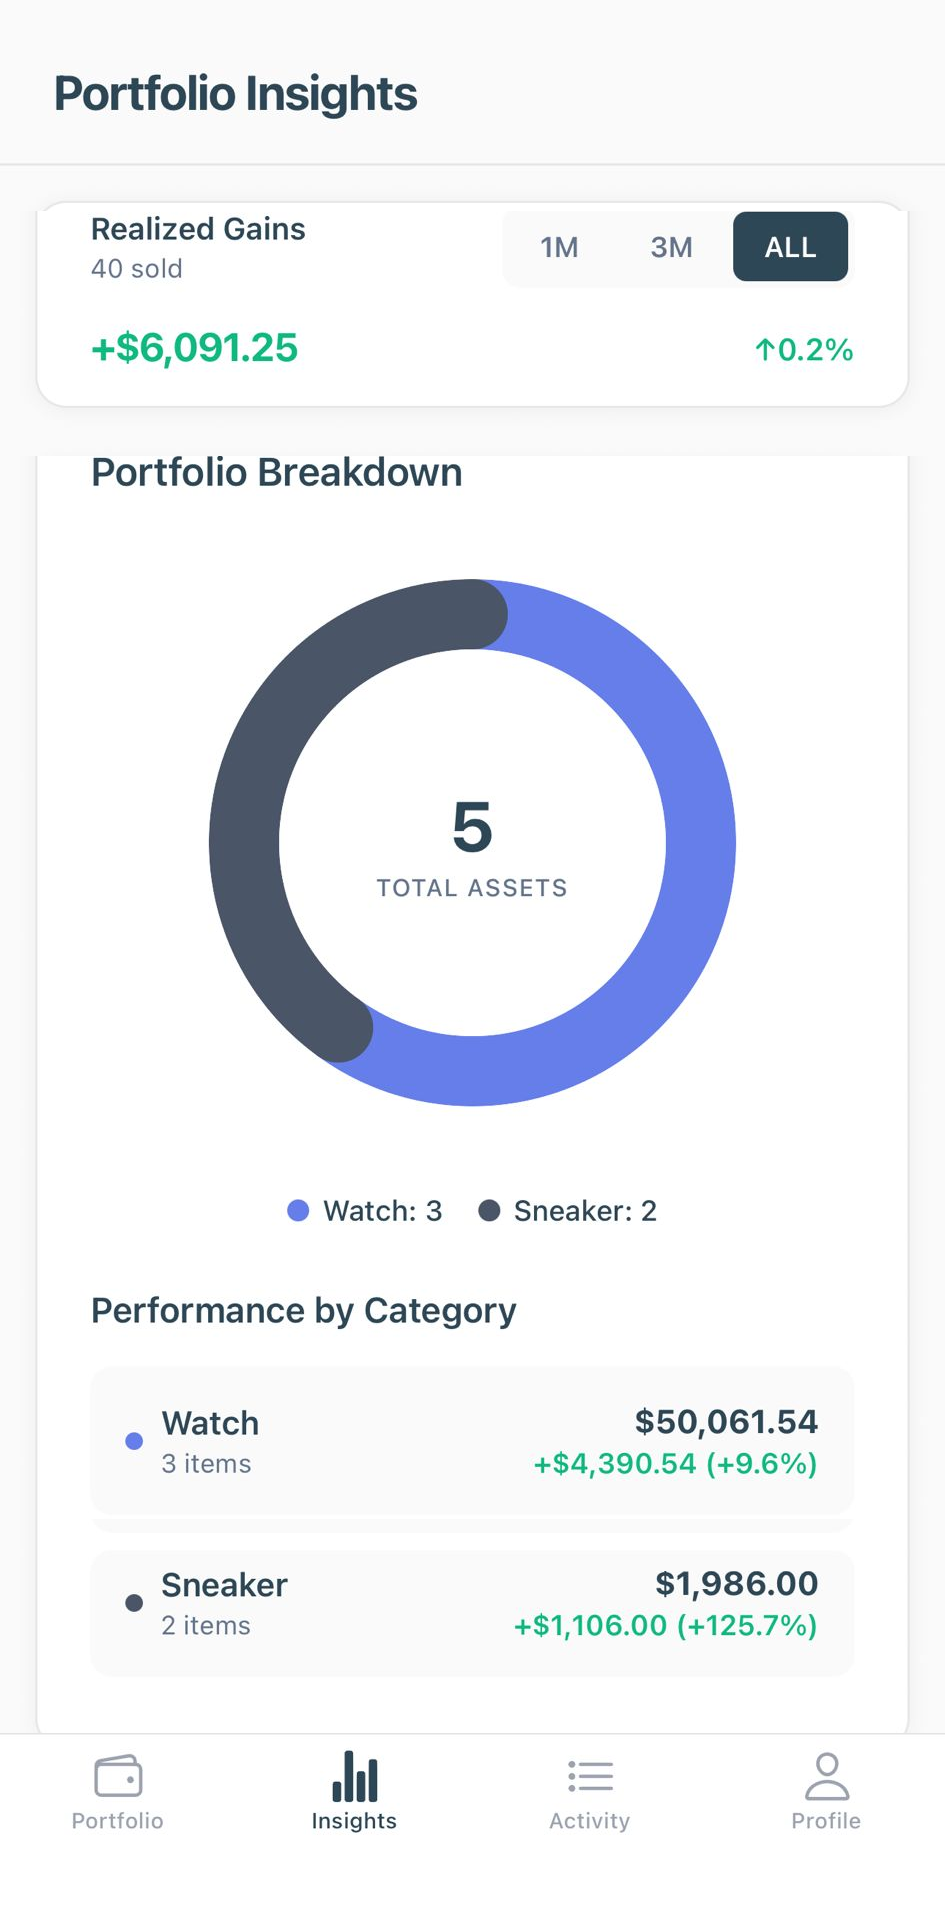
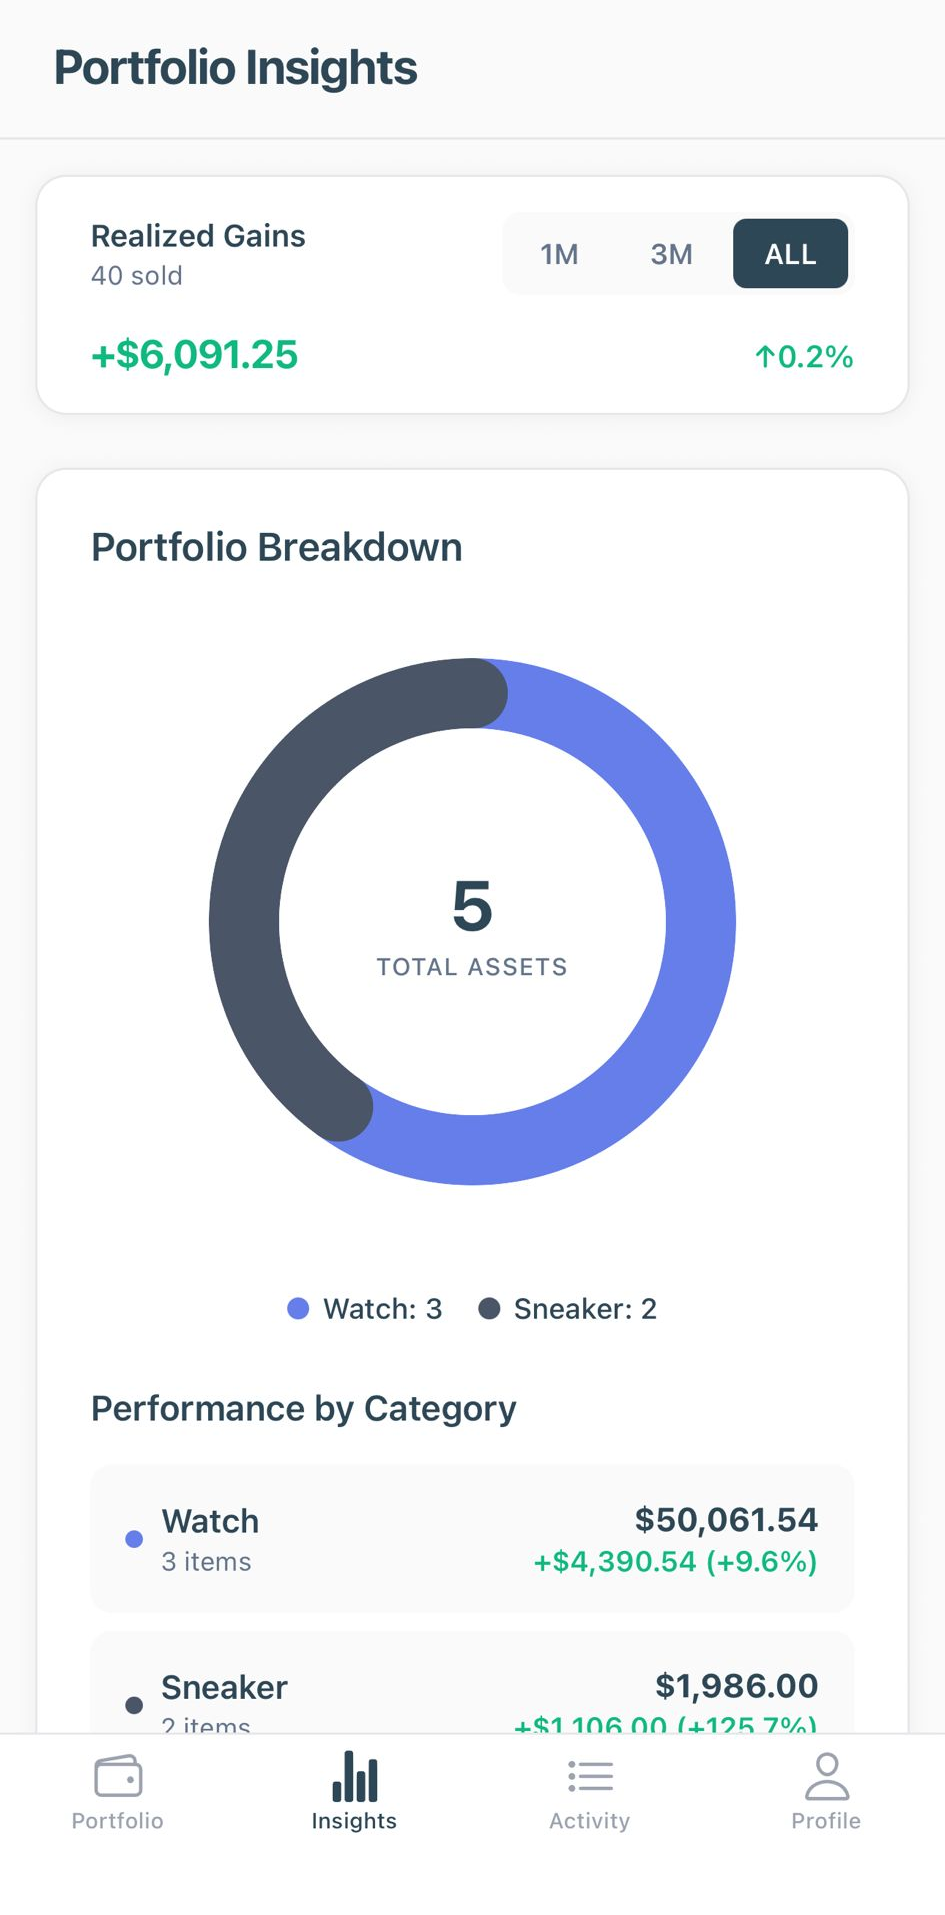
update: replace styles and insights screenshot from updated design

diff --git a/app/globals.css b/app/globals.css
@@ -21,13 +21,14 @@
   --red:#d6463b;
   --periwinkle:#5e6be8;
 
+  /* accent — overridden by [data-accent] */
   --accent:#15a06b;
   --accent-tint:#e6f4ec;
   --accent-ink:#0e6e49;
 
-  --font-display:var(--font-schibsted),system-ui,sans-serif;
-  --font-body:var(--font-hanken),system-ui,sans-serif;
-  --font-mono:var(--font-jetbrains),ui-monospace,monospace;
+  --font-display:'Schibsted Grotesk',system-ui,sans-serif;
+  --font-body:'Hanken Grotesk',system-ui,sans-serif;
+  --font-mono:'JetBrains Mono',ui-monospace,monospace;
 
   --maxw:1180px;
   --radius:18px;
@@ -36,6 +37,13 @@
   --shadow:0 12px 30px -12px rgba(22,37,47,.22),0 4px 10px -4px rgba(22,37,47,.10);
   --shadow-lg:0 40px 80px -30px rgba(22,37,47,.38),0 16px 40px -20px rgba(22,37,47,.22);
 }
+
+[data-accent="emerald"]{ --accent:#15a06b; --accent-tint:#e6f4ec; --accent-ink:#0e6e49; }
+[data-accent="navy"]    { --accent:#1f3240; --accent-tint:#e7ecef; --accent-ink:#16252f; }
+[data-accent="periwinkle"]{ --accent:#5664e6; --accent-tint:#ebecfb; --accent-ink:#3a47c4; }
+[data-accent="champagne"]{ --accent:#a9854f; --accent-tint:#f4ecdd; --accent-ink:#7e6231; }
+
+[data-font="editorial"]{ --font-display:'Newsreader',Georgia,serif; }
 
 *{box-sizing:border-box}
 html{scroll-behavior:smooth}
@@ -58,6 +66,7 @@ a{color:inherit;text-decoration:none}
 
 /* ---------- type ---------- */
 h1,h2,h3{font-family:var(--font-display);font-weight:800;color:var(--text);margin:0;line-height:1.04;letter-spacing:-.02em}
+[data-font="editorial"] h1,[data-font="editorial"] h2,[data-font="editorial"] h3{font-weight:600;letter-spacing:-.01em}
 h1{font-size:clamp(2.6rem,6vw,4.4rem)}
 h2{font-size:clamp(2rem,4vw,3.1rem)}
 h3{font-size:clamp(1.3rem,2vw,1.65rem);letter-spacing:-.01em}
@@ -75,7 +84,7 @@ p{margin:0}
 }
 .eyebrow::before{content:"";width:7px;height:7px;border-radius:50%;background:var(--accent)}
 
-/* ---------- store buttons ---------- */
+/* ---------- buttons / store badges ---------- */
 .store-row{display:flex;gap:14px;flex-wrap:wrap;align-items:center}
 .appbtn{
   display:inline-flex;align-items:center;gap:12px;
@@ -85,7 +94,7 @@ p{margin:0}
 }
 .appbtn:hover{background:var(--ink-900);transform:translateY(-2px)}
 .appbtn-ic{width:24px;height:24px;flex:none;fill:#fff}
-.appbtn-tx{display:flex;flex-direction:column;line-height:1.08}
+.appbtn-tx{display:flex;flex-direction:column;line-height:1.18;gap:1px}
 .appbtn-tx small{font-size:.66rem;letter-spacing:.02em;opacity:.82;font-weight:500}
 .appbtn-tx strong{font-family:var(--font-display);font-size:1.08rem;font-weight:700;letter-spacing:-.01em}
 
@@ -134,37 +143,83 @@ p{margin:0}
 .hero-copy{display:flex;flex-direction:column;gap:24px;max-width:560px}
 .hero h1{margin-top:6px}
 .hero h1 .hl{color:var(--accent-ink);white-space:nowrap}
+[data-accent="navy"] .hero h1 .hl{color:var(--ink)}
 .hero-sub{display:flex;flex-direction:column;gap:14px}
 .hero-trust{display:flex;align-items:center;gap:10px;flex-wrap:wrap;margin-top:4px;
   font-family:var(--font-mono);font-size:.78rem;letter-spacing:.04em;color:var(--muted)}
 .hero-trust .dot{width:4px;height:4px;border-radius:50%;background:var(--muted-2)}
 
+/* app cluster visual (native UI, no device frame) */
 .app-stage{position:relative;display:flex;justify-content:center;align-items:flex-start}
 .phone-glow{
-  position:absolute;inset:-8% -6% 4% -6%;z-index:0;border-radius:48px;
-  background:radial-gradient(closest-side, color-mix(in srgb,var(--accent) 20%,transparent), transparent 72%);
-  filter:blur(14px);opacity:.7;
+  display:none;
 }
+.app-cluster{position:relative;z-index:1;width:min(420px,100%);display:flex;flex-direction:column;gap:16px}
+.chip{
+  position:absolute;z-index:3;background:var(--card);
+  border:1px solid var(--line);border-radius:14px;
+  box-shadow:var(--shadow);padding:11px 14px;
+  display:flex;align-items:center;gap:11px;
+}
+.chip .ic{width:34px;height:34px;border-radius:9px;display:grid;place-items:center;flex:none;
+  background:var(--accent-tint);color:var(--accent-ink)}
+.chip .ic svg{width:18px;height:18px;fill:none;stroke:currentColor;stroke-width:2;stroke-linecap:round;stroke-linejoin:round}
+.chip .c-label{display:block;font-family:var(--font-mono);font-size:.6rem;letter-spacing:.12em;text-transform:uppercase;color:var(--muted-2);line-height:1}
+.chip .c-val{display:block;font-family:var(--font-display);font-weight:700;font-size:1.02rem;color:var(--text);line-height:1.1;margin-top:4px}
+.chip .c-val.pos{color:var(--green)}
+.chip.c1{top:14%;left:-6%;animation:float 6s ease-in-out infinite}
+.chip.c2{bottom:16%;right:-7%;animation:float 6s ease-in-out infinite .8s}
+@keyframes float{0%,100%{transform:translateY(0)}50%{transform:translateY(-10px)}}
+
+/* centered hero variant */
+[data-hero="centered"] .hero-grid{grid-template-columns:1fr;text-align:center;gap:40px}
+[data-hero="centered"] .hero-copy{max-width:720px;margin:0 auto;align-items:center}
+[data-hero="centered"] .lead{max-width:54ch}
+[data-hero="centered"] .app-cluster{width:min(400px,90%);margin:0 auto}
+[data-hero="centered"] .chip.c1{left:4%}
+[data-hero="centered"] .chip.c2{right:4%}
 
 @media(max-width:860px){
   .hero-grid{grid-template-columns:1fr;text-align:center;gap:44px}
   .hero-copy{max-width:640px;margin:0 auto;align-items:center}
   .hero .store-row{justify-content:center}
   .hero .lead{max-width:52ch}
+  .chip.c1{left:2%}.chip.c2{right:2%}
 }
+
+/* ---------- category / vault strip ---------- */
+.cats{display:grid;grid-template-columns:repeat(5,1fr);gap:16px;margin-top:42px}
+.cat{
+  background:var(--card);border:1px solid var(--line);border-radius:var(--radius);
+  padding:26px 18px;text-align:center;position:relative;
+  transition:transform .25s,box-shadow .25s,border-color .25s;
+}
+.cat:hover{transform:translateY(-4px);box-shadow:var(--shadow);border-color:var(--line-strong)}
+.cat .cat-ic{width:52px;height:52px;margin:0 auto 14px;border-radius:14px;display:grid;place-items:center;
+  background:var(--paper-2);color:var(--ink)}
+.cat:hover .cat-ic{background:var(--accent-tint);color:var(--accent-ink)}
+.cat .cat-ic svg{width:28px;height:28px;fill:none;stroke:currentColor;stroke-width:1.7}
+.cat .cat-name{font-family:var(--font-display);font-weight:700;font-size:1.05rem}
+.cat .cat-tag{font-family:var(--font-mono);font-size:.62rem;letter-spacing:.14em;text-transform:uppercase;margin-top:7px}
+.cat .cat-tag.live{color:var(--green)}
+.cat .cat-tag.soon{color:var(--muted-2)}
+@media(max-width:760px){.cats{grid-template-columns:repeat(2,1fr)}}
 
 /* ---------- section head ---------- */
 .head{max-width:640px;display:flex;flex-direction:column;gap:18px}
 .head.center{margin:0 auto;text-align:center;align-items:center}
 
-/* ---------- spotlight / feature ---------- */
-.spot{display:grid;grid-template-columns:1fr 1fr;gap:clamp(40px,6vw,90px);align-items:center}
+/* ---------- spotlight feature ---------- */
+.spot{display:grid;grid-template-columns:1.05fr .95fr;gap:48px;align-items:center}
+.spot.flip{direction:rtl}
+.spot.flip>*{direction:ltr}
 .spot-media{position:relative;display:flex;justify-content:center}
 .spot-media::before{
   content:"";position:absolute;inset:4% 6%;z-index:0;border-radius:40px;
   background:radial-gradient(closest-side,color-mix(in srgb,var(--accent) 15%,transparent),transparent 70%);
   filter:blur(10px);
 }
+.spot-media .detail-card{position:relative;z-index:1}
 .feat-list{display:flex;flex-direction:column;gap:18px;margin-top:8px}
 .feat{display:flex;gap:15px;align-items:flex-start}
 .feat .tick{width:26px;height:26px;border-radius:8px;flex:none;display:grid;place-items:center;
@@ -172,7 +227,19 @@ p{margin:0}
 .feat .tick svg{width:14px;height:14px;fill:none;stroke:currentColor;stroke-width:2.4}
 .feat b{font-family:var(--font-display);font-weight:700;font-size:1.06rem;display:block;color:var(--text)}
 .feat span{color:var(--muted);font-size:1rem;line-height:1.5}
-@media(max-width:860px){.spot{grid-template-columns:1fr;gap:40px}}
+@media(max-width:860px){.spot{grid-template-columns:1fr;gap:40px}.spot.flip{direction:ltr}}
+
+/* ---------- gallery ---------- */
+.gallery{display:grid;grid-template-columns:repeat(3,1fr);gap:24px;margin-top:54px}
+.shot{
+  border-radius:var(--radius-lg);overflow:hidden;background:var(--paper-2);
+  border:1px solid var(--line);box-shadow:var(--shadow);
+  aspect-ratio:9/15.2;
+  transition:transform .3s,box-shadow .3s;
+}
+.shot:hover{transform:translateY(-6px);box-shadow:var(--shadow-lg)}
+.shot img{width:100%;height:100%;object-fit:cover;object-position:top center}
+@media(max-width:820px){.gallery{grid-template-columns:1fr;max-width:380px;margin-left:auto;margin-right:auto}}
 
 /* ---------- how it works ---------- */
 .steps{display:grid;grid-template-columns:repeat(3,1fr);gap:26px;margin-top:54px}
@@ -193,7 +260,8 @@ p{margin:0}
 .vision h2{color:#fff}
 .vision .lead{color:#aebac1;max-width:46ch}
 .vision .eyebrow{color:color-mix(in srgb,var(--accent) 75%,#fff)}
-.vision-mark{position:relative;display:flex;justify-content:center}
+.vision-mark{display:flex;justify-content:center}
+.vision-mark{position:relative}
 .vision-mark::before{content:"";position:absolute;inset:50% auto auto 50%;transform:translate(-50%,-50%);width:min(300px,80%);aspect-ratio:1;border-radius:40px;background:radial-gradient(closest-side,color-mix(in srgb,var(--accent) 22%,transparent),transparent 72%);filter:blur(6px)}
 .vision-mark img{position:relative;width:min(208px,56%);border-radius:30px;box-shadow:0 30px 60px -20px rgba(0,0,0,.55);outline:1px solid rgba(255,255,255,.14);outline-offset:-1px}
 .taglist{display:flex;flex-wrap:wrap;gap:10px;margin-top:6px}
@@ -204,7 +272,7 @@ p{margin:0}
 
 /* ---------- final cta ---------- */
 .cta-band{text-align:center;background:var(--card);border:1px solid var(--line);border-radius:var(--radius-lg);
-  padding:clamp(48px,7vw,84px) 28px;box-shadow:var(--shadow);position:relative;overflow:hidden}
+  padding:clamp(48px,7vw,84px) 28px;position:relative;overflow:hidden}
 .cta-band::before{content:"";position:absolute;inset:0;
   background:radial-gradient(600px 300px at 50% -20%,color-mix(in srgb,var(--accent) 12%,transparent),transparent 60%)}
 .cta-band>*{position:relative;z-index:1}
@@ -226,7 +294,74 @@ p{margin:0}
   display:flex;justify-content:space-between;gap:16px;flex-wrap:wrap;
   font-family:var(--font-mono);font-size:.76rem;letter-spacing:.03em;color:var(--muted-2)}
 
-/* ===== crisp device frame ===== */
+/* ============================================================
+   NATIVE UI COMPONENTS (recreated app surfaces — crisp, no frame)
+   ============================================================ */
+/* portfolio card */
+.pcard{background:linear-gradient(158deg,#27414f,#162630);color:#fff;border-radius:24px;
+  padding:26px 26px 22px;box-shadow:var(--shadow-lg);position:relative;overflow:hidden}
+.pcard::before{content:"";position:absolute;inset:0;opacity:.5;pointer-events:none;
+  background:radial-gradient(420px 180px at 90% -10%,color-mix(in srgb,var(--accent) 30%,transparent),transparent 60%)}
+.pcard>*{position:relative}
+.pc-top{display:flex;justify-content:space-between;align-items:center}
+.pc-label{font-family:var(--font-mono);font-size:.66rem;letter-spacing:.18em;text-transform:uppercase;color:#9fb1bb}
+.pc-time{font-family:var(--font-mono);font-size:.64rem;color:#8ba0ab;display:flex;gap:7px;align-items:center}
+.pc-time i{width:6px;height:6px;border-radius:50%;background:#3ddc97;display:inline-block}
+.pc-val{font-family:var(--font-display);font-weight:800;font-size:2.7rem;letter-spacing:-.03em;margin-top:12px;line-height:1}
+.pc-delta{display:flex;align-items:center;gap:11px;margin-top:13px}
+.pc-delta .d{font-family:var(--font-display);font-weight:700;color:#3ddc97;font-size:1.08rem}
+.pc-pill{background:rgba(61,220,151,.18);color:#5fe3aa;font-family:var(--font-mono);font-size:.78rem;font-weight:600;padding:5px 10px;border-radius:8px;display:inline-flex;gap:5px;align-items:center}
+.pc-stats{display:grid;grid-template-columns:repeat(3,1fr);gap:10px;margin-top:22px;padding-top:20px;border-top:1px solid rgba(255,255,255,.12)}
+.pc-stat{background:rgba(255,255,255,.05);border:1px solid rgba(255,255,255,.09);border-radius:13px;padding:13px 8px;text-align:center}
+.pc-stat b{display:block;font-family:var(--font-display);font-weight:700;font-size:1.12rem;color:#fff;line-height:1}
+.pc-stat b.pos{color:#3ddc97}
+.pc-stat span{font-family:var(--font-mono);font-size:.55rem;letter-spacing:.13em;text-transform:uppercase;color:#8ba0ab;margin-top:6px;display:block}
+
+/* asset list card + rows */
+.listcard{background:var(--card);border:1px solid var(--line);border-radius:20px;padding:6px;box-shadow:var(--shadow)}
+.listcard .lc-head{display:flex;justify-content:space-between;align-items:center;padding:14px 14px 8px}
+.lc-head .t{font-family:var(--font-display);font-weight:800;font-size:1.05rem}
+.lc-head .a{width:30px;height:30px;border-radius:9px;background:var(--ink);color:#fff;display:grid;place-items:center}
+.lc-head .a svg{width:16px;height:16px;fill:none;stroke:currentColor;stroke-width:2.4}
+.arow{display:flex;align-items:center;gap:13px;padding:12px 14px;border-radius:14px}
+.arow+.arow{border-top:1px solid var(--line)}
+.athumb{width:42px;height:42px;border-radius:11px;flex:none;display:grid;place-items:center;background:var(--paper-2);color:var(--ink)}
+.athumb svg{width:23px;height:23px;fill:none;stroke:currentColor;stroke-width:1.6}
+.ainfo{flex:1;min-width:0}
+.ainfo .aname{font-family:var(--font-display);font-weight:700;font-size:.98rem;line-height:1.2}
+.ainfo .amodel{color:var(--muted);font-size:.82rem;white-space:nowrap;overflow:hidden;text-overflow:ellipsis}
+.aprice{text-align:right;flex:none}
+.aprice .ap{font-family:var(--font-display);font-weight:700;font-size:.98rem;line-height:1.2}
+.aprice .ag{font-size:.78rem;font-weight:600;font-family:var(--font-mono)}
+.ag.pos{color:var(--green)}.ag.neg{color:var(--red)}
+
+/* detail card */
+.detail-card{background:var(--card);border:1px solid var(--line);border-radius:24px;padding:26px;
+  box-shadow:var(--shadow-lg);width:min(440px,100%)}
+.dc-head{display:flex;justify-content:space-between;align-items:flex-start;gap:14px}
+.dc-title .t{font-family:var(--font-display);font-weight:800;font-size:1.32rem;line-height:1.1}
+.dc-title .s{color:var(--muted);font-size:.96rem;margin-top:2px}
+.dc-title .r{font-family:var(--font-mono);font-size:.72rem;color:var(--muted-2);margin-top:4px;letter-spacing:.03em}
+.dc-thumb{width:56px;height:56px;border-radius:15px;background:var(--paper-2);display:grid;place-items:center;color:var(--ink);flex:none}
+.dc-thumb svg{width:30px;height:30px;fill:none;stroke:currentColor;stroke-width:1.5}
+.dc-price{font-family:var(--font-display);font-weight:800;font-size:2.5rem;letter-spacing:-.03em;margin-top:20px;line-height:1}
+.dc-delta{display:flex;align-items:center;gap:11px;margin-top:11px;flex-wrap:wrap}
+.dc-delta .d{color:var(--green);font-weight:700;font-family:var(--font-display);font-size:1.02rem}
+.dc-delta .pill{background:var(--green-tint);color:var(--green);font-family:var(--font-mono);font-weight:600;font-size:.76rem;padding:4px 9px;border-radius:7px}
+.dc-delta .from{color:var(--muted);font-size:.86rem}
+.dc-chart{margin:18px 0 0}
+.dc-chart svg{width:100%;height:auto;display:block;overflow:visible}
+.dc-ranges{display:flex;gap:7px;margin-top:16px}
+.dc-ranges span{flex:1;text-align:center;font-family:var(--font-mono);font-size:.74rem;font-weight:600;padding:8px 0;border-radius:9px;background:var(--paper-2);color:var(--muted)}
+.dc-ranges span.on{background:var(--ink);color:#fff}
+
+/* real app screens (frameless) */
+.app-screen{position:relative;z-index:1;width:min(322px,80%);border-radius:42px;overflow:hidden;
+  box-shadow:var(--shadow-lg);background:#fff;border:1px solid rgba(22,37,47,.06)}
+.app-screen img{width:100%;display:block}
+.spot-media .app-screen{width:min(322px,76%)}
+
+/* ===== crisp device frame (vector, sharp at any size) ===== */
 .device{
   position:relative;z-index:1;
   width:min(372px,92%);
@@ -236,10 +371,9 @@ p{margin:0}
     linear-gradient(145deg,#2b2b2e 0%,#3c3c41 14%,#1c1c1f 36%,#37373b 60%,#19191c 84%,#2f2f33 100%);
   box-shadow:
     0 2px 4px rgba(255,255,255,.18) inset,
-    0 -1px 3px rgba(0,0,0,.55) inset,
-    var(--shadow-lg);
+    0 -1px 3px rgba(0,0,0,.55) inset;
 }
-.device::before{
+.device::before{ /* titanium rim highlight */
   content:"";position:absolute;inset:0;border-radius:inherit;pointer-events:none;
   box-shadow:0 0 0 1.5px rgba(0,0,0,.35), 0 0 0 2.5px rgba(255,255,255,.06);
 }
@@ -251,7 +385,12 @@ p{margin:0}
   box-shadow:0 0 0 2px #0a0a0b;
 }
 .device-screen img{width:100%;display:block;height:auto}
-.device-status{position:relative;z-index:2;height:32px;flex:none;background:#fafafa}
+.device-status{
+  position:relative;z-index:2;height:32px;flex:none;background:#fafafa;
+}
+.device-status .t{font-family:var(--font-body);font-weight:600;font-size:.62rem;color:#16252f;letter-spacing:.02em}
+.device-status .iconz{display:flex;align-items:center;gap:4px}
+.device-status .iconz svg{height:.66rem;width:auto;display:block;fill:#16252f}
 .device-island{
   position:absolute;z-index:4;top:9px;left:50%;transform:translateX(-50%);
   width:30%;height:18px;background:#050506;border-radius:999px;
@@ -263,7 +402,51 @@ p{margin:0}
 .device-side.l3{left:-2px;top:41%;height:8%}
 .spot-media .device{width:min(366px,86%)}
 
-/* ---------- scroll reveal ---------- */
+.app-card{position:relative;z-index:1;width:min(400px,88%);border-radius:24px;overflow:hidden;
+  box-shadow:var(--shadow-lg);border:1px solid var(--line);background:#fff}
+.app-card img{width:100%;display:block}
+
+/* insight cards */
+.insight-grid{display:grid;grid-template-columns:repeat(3,1fr);gap:24px;margin-top:54px}
+.icard{background:var(--card);border:1px solid var(--line);border-radius:22px;padding:26px;box-shadow:var(--shadow);
+  display:flex;flex-direction:column;gap:20px;transition:transform .3s,box-shadow .3s}
+.icard:hover{transform:translateY(-5px);box-shadow:var(--shadow-lg)}
+.icard .ic-h{display:flex;flex-direction:column;gap:8px}
+.icard h3{font-size:1.18rem}
+.icard .ic-h p{color:var(--muted);font-size:.94rem}
+.ic-body{margin-top:auto}
+.ic-body .arow{padding:10px 0}
+.ic-body .arow .athumb{width:38px;height:38px}
+.ic-body .listcard{box-shadow:none;border-color:var(--line);padding:4px 12px}
+
+/* donut */
+.donut-wrap{display:flex;flex-direction:column;align-items:center;gap:16px}
+.donut{position:relative;width:154px;height:154px}
+.donut svg{transform:rotate(-90deg);display:block}
+.donut .center{position:absolute;inset:0;display:flex;flex-direction:column;align-items:center;justify-content:center;gap:3px}
+.donut .center b{font-family:var(--font-display);font-weight:800;font-size:1.8rem;line-height:1}
+.donut .center span{font-family:var(--font-mono);font-size:.55rem;letter-spacing:.14em;text-transform:uppercase;color:var(--muted-2)}
+.legend{display:flex;gap:18px;justify-content:center;font-size:.84rem;color:var(--muted);font-weight:500}
+.legend i{width:9px;height:9px;border-radius:50%;display:inline-block;margin-right:7px;vertical-align:middle}
+
+/* alert mini */
+.alertcard{border:1px solid var(--line);border-radius:16px;padding:16px;display:flex;flex-direction:column;gap:14px}
+.alert-top{display:flex;align-items:center;gap:12px}
+.alert-top .athumb{width:40px;height:40px}
+.alert-name{flex:1}
+.alert-name .an{font-family:var(--font-display);font-weight:700;font-size:.98rem}
+.alert-name .au{color:var(--accent-ink);font-size:.82rem;font-weight:600;font-family:var(--font-mono);display:flex;align-items:center;gap:5px}
+.alert-badge{font-family:var(--font-mono);font-size:.66rem;letter-spacing:.08em;text-transform:uppercase;font-weight:600;
+  color:var(--green);background:var(--green-tint);padding:5px 10px;border-radius:999px}
+.alert-bot{display:flex;justify-content:space-between;align-items:flex-end;padding-top:13px;border-top:1px solid var(--line)}
+.alert-bot .lab{font-family:var(--font-mono);font-size:.62rem;letter-spacing:.1em;text-transform:uppercase;color:var(--muted-2)}
+.alert-bot .val{font-family:var(--font-display);font-weight:700;font-size:1.05rem;margin-top:3px;white-space:nowrap}
+.alert-bot .away{text-align:right}
+.alert-bot .away .pct{color:var(--muted);font-size:.8rem;font-family:var(--font-mono)}
+
+@media(max-width:860px){.insight-grid{grid-template-columns:1fr;max-width:420px;margin-left:auto;margin-right:auto}}
+
+/* ---------- reveal ---------- */
 @media(prefers-reduced-motion:no-preference){
   .reveal{opacity:0;transform:translateY(22px);transition:opacity .7s cubic-bezier(.2,.7,.2,1),transform .7s cubic-bezier(.2,.7,.2,1)}
   .reveal.in{opacity:1;transform:none}
